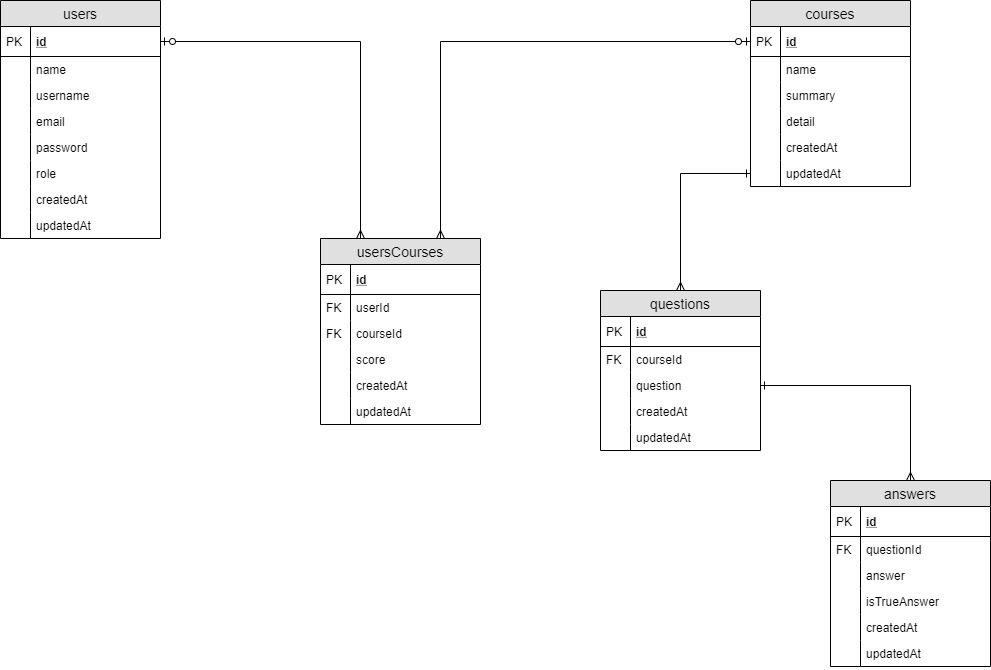
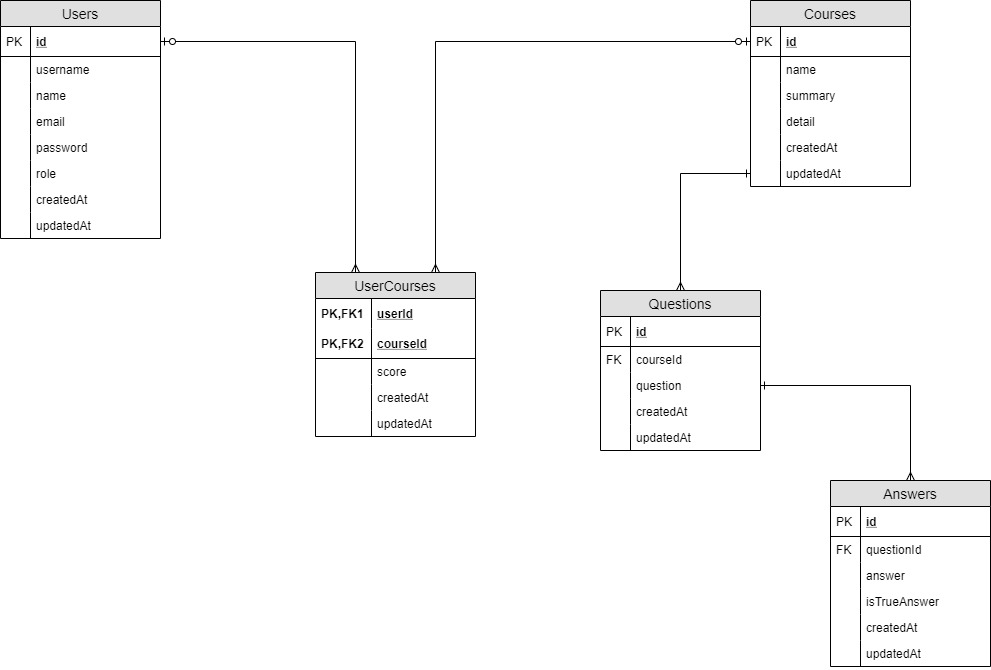
inisialisasi model

diff --git a/migrations/20200226084848-add-user-course-foreign.js b/migrations/20200226084848-add-user-course-foreign.js
@@ -1,0 +1,47 @@
+'use strict';
+
+module.exports = {
+  up: (queryInterface, Sequelize) => {
+    /*
+      Add altering commands here.
+      Return a promise to correctly handle asynchronicity.
+
+      Example:
+      */
+     return Promise.all([
+        queryInterface.addConstraint('UserCourses', ['userId'],{ 
+            type: 'foreign key',
+            name:'UserCourses_userId_fk',
+            references: { 
+              table: 'Users',
+              field: 'id'
+            },
+            onDelete: 'cascade',
+            onUpdate: 'cascade'   
+        }),
+        queryInterface.addConstraint('UserCourses', ['courseId'],{ 
+          type: 'foreign key',
+          name:'UserCourses_courseId_fk',
+          references: { 
+            table: 'Courses',
+            field: 'id'
+          },
+          onDelete: 'cascade',
+          onUpdate: 'cascade'   
+        }),
+     ])
+  },
+
+  down: (queryInterface, Sequelize) => {
+    /*
+      Add reverting commands here.
+      Return a promise to correctly handle asynchronicity.
+
+      Example:
+      */
+     return Promise.all([
+      queryInterface.removeConstraint('UserCourses','UserCourses_userId_fk'),
+      queryInterface.removeConstraint('UserCourses','UserCourses_courseId_fk')
+     ]);
+  }
+};

diff --git a/migrations/20200226083942-create-user.js b/migrations/20200226083942-create-user.js
@@ -1,0 +1,42 @@
+'use strict';
+module.exports = {
+  up: (queryInterface, Sequelize) => {
+    return queryInterface.createTable('Users', {
+      id: {
+        allowNull: false,
+        autoIncrement: true,
+        primaryKey: true,
+        type: Sequelize.INTEGER
+      },
+      name: {
+        type: Sequelize.STRING
+      },
+      username: {
+        type: Sequelize.STRING(20),
+        allowNull: false,
+      },
+      email: {
+        type: Sequelize.STRING,
+        allowNull: false,
+      },
+      password: {
+        type: Sequelize.STRING,
+        allowNull: false,
+      },
+      role: {
+        type: Sequelize.ENUM('user','admin')
+      },
+      createdAt: {
+        allowNull: false,
+        type: Sequelize.DATE
+      },
+      updatedAt: {
+        allowNull: false,
+        type: Sequelize.DATE
+      }
+    });
+  },
+  down: (queryInterface, Sequelize) => {
+    return queryInterface.dropTable('Users');
+  }
+};

diff --git a/migrations/20200226090002-create-answer.js b/migrations/20200226090002-create-answer.js
@@ -1,0 +1,36 @@
+'use strict';
+module.exports = {
+  up: (queryInterface, Sequelize) => {
+    return queryInterface.createTable('Answers', {
+      id: {
+        allowNull: false,
+        autoIncrement: true,
+        primaryKey: true,
+        type: Sequelize.INTEGER
+      },
+      questionId: {
+        type: Sequelize.INTEGER,
+        allowNull: false,
+      },
+      answer: {
+        type: Sequelize.TEXT('tiny'),
+        allowNull: false,
+      },
+      isTruAnswer: {
+        type: Sequelize.BOOLEAN,
+        allowNull: false,
+      },
+      createdAt: {
+        allowNull: false,
+        type: Sequelize.DATE
+      },
+      updatedAt: {
+        allowNull: false,
+        type: Sequelize.DATE
+      }
+    });
+  },
+  down: (queryInterface, Sequelize) => {
+    return queryInterface.dropTable('Answers');
+  }
+};

diff --git a/migrations/20200226084553-create-course.js b/migrations/20200226084553-create-course.js
@@ -1,0 +1,36 @@
+'use strict';
+module.exports = {
+  up: (queryInterface, Sequelize) => {
+    return queryInterface.createTable('Courses', {
+      id: {
+        allowNull: false,
+        autoIncrement: true,
+        primaryKey: true,
+        type: Sequelize.INTEGER
+      },
+      name: {
+        type: Sequelize.STRING,
+        allowNull: false,
+      },
+      summary: {
+        type: Sequelize.TEXT,
+        allowNull: false,
+      },
+      detail: {
+        type: Sequelize.TEXT,
+        allowNull: false,
+      },
+      createdAt: {
+        allowNull: false,
+        type: Sequelize.DATE
+      },
+      updatedAt: {
+        allowNull: false,
+        type: Sequelize.DATE
+      }
+    });
+  },
+  down: (queryInterface, Sequelize) => {
+    return queryInterface.dropTable('Courses');
+  }
+};

diff --git a/migrations/20200226085513-add-question-course-fk.js b/migrations/20200226085513-add-question-course-fk.js
@@ -1,0 +1,32 @@
+'use strict';
+
+module.exports = {
+  up: (queryInterface, Sequelize) => {
+    /*
+      Add altering commands here.
+      Return a promise to correctly handle asynchronicity.
+
+      Example:
+      */
+     return queryInterface.addConstraint('Questions', ['courseId'],{ 
+          type: 'foreign key',
+          name:'Questions_courseId_fk',
+          references: { 
+            table: 'Courses',
+            field: 'id'
+          },
+          onDelete: 'cascade',
+          onUpdate: 'cascade'   
+      });
+  },
+
+  down: (queryInterface, Sequelize) => {
+    /*
+      Add reverting commands here.
+      Return a promise to correctly handle asynchronicity.
+
+      Example:
+      */
+     return queryInterface.removeConstraint('Questions','Questions_courseId_fk');
+  }
+};

diff --git a/migrations/20200226090041-add-answer-question-fk.js b/migrations/20200226090041-add-answer-question-fk.js
@@ -1,0 +1,32 @@
+'use strict';
+
+module.exports = {
+  up: (queryInterface, Sequelize) => {
+    /*
+      Add altering commands here.
+      Return a promise to correctly handle asynchronicity.
+
+      Example:
+      */
+     return queryInterface.addConstraint('Answers', ['questionId'],{ 
+        type: 'foreign key',
+        name:'Answers_questionId_fk',
+        references: { 
+          table: 'Questions',
+          field: 'id'
+        },
+        onDelete: 'cascade',
+        onUpdate: 'cascade'   
+      });
+  },
+
+  down: (queryInterface, Sequelize) => {
+    /*
+      Add reverting commands here.
+      Return a promise to correctly handle asynchronicity.
+
+      
+    */
+    return queryInterface.removeConstraint('Answers','Answers_questionId_fk');
+  }
+};

diff --git a/migrations/20200226085442-create-question.js b/migrations/20200226085442-create-question.js
@@ -1,0 +1,31 @@
+'use strict';
+module.exports = {
+  up: (queryInterface, Sequelize) => {
+    return queryInterface.createTable('Questions', {
+      id: {
+        allowNull: false,
+        autoIncrement: true,
+        primaryKey: true,
+        type: Sequelize.INTEGER
+      },
+      courseId: {
+        type: Sequelize.INTEGER
+      },
+      question: {
+        type: Sequelize.TEXT,
+        allowNull: false,
+      },
+      createdAt: {
+        allowNull: false,
+        type: Sequelize.DATE
+      },
+      updatedAt: {
+        allowNull: false,
+        type: Sequelize.DATE
+      }
+    });
+  },
+  down: (queryInterface, Sequelize) => {
+    return queryInterface.dropTable('Questions');
+  }
+};

diff --git a/migrations/20200226084746-create-user-course.js b/migrations/20200226084746-create-user-course.js
@@ -1,0 +1,29 @@
+'use strict';
+module.exports = {
+  up: (queryInterface, Sequelize) => {
+    return queryInterface.createTable('UserCourses', {
+      userId: {
+        type: Sequelize.INTEGER,
+        primaryKey: true,
+      },
+      courseId: {
+        type: Sequelize.INTEGER,
+        primaryKey: true,
+      },
+      score: {
+        type: Sequelize.INTEGER
+      },
+      createdAt: {
+        allowNull: false,
+        type: Sequelize.DATE
+      },
+      updatedAt: {
+        allowNull: false,
+        type: Sequelize.DATE
+      }
+    });
+  },
+  down: (queryInterface, Sequelize) => {
+    return queryInterface.dropTable('UserCourses');
+  }
+};

diff --git a/models/usercourse.js b/models/usercourse.js
@@ -1,0 +1,20 @@
+'use strict';
+module.exports = (sequelize, DataTypes) => {
+
+  const Model=sequelize.Sequelize.Model;
+
+  class UserCourse extends Model{}
+
+  UserCourse.init( {
+    userId: DataTypes.INTEGER,
+    courseId: DataTypes.INTEGER,
+    score: DataTypes.INTEGER
+  },{sequelize,modelName: 'UserCourse'})
+
+  UserCourse.associate = function(models) {
+    // associations can be defined here
+    UserCourse.belongsTo(models.User,{ foreignKey: 'userId' });
+    UserCourse.belongsTo(models.Course,{ foreignKey: 'courseId' });
+  };
+  return UserCourse;
+};

diff --git a/models/user.js b/models/user.js
@@ -1,0 +1,21 @@
+'use strict';
+module.exports = (sequelize, DataTypes) => {
+
+  const Model=sequelize.Sequelize.Model;
+
+  class User extends Model{}
+
+  User.init({
+    name: DataTypes.STRING,
+    username: DataTypes.STRING,
+    email: DataTypes.STRING,
+    password: DataTypes.STRING,
+    role: DataTypes.ENUM('user','role')
+  },{sequelize,modelName: 'User'});
+
+  User.associate = function(models) {
+    // associations can be defined here
+    User.belongsToMany(models.Course,{through:'UserCourse',foreignKey:'userId'})
+  };
+  return User;
+};

diff --git a/models/course.js b/models/course.js
@@ -1,0 +1,20 @@
+'use strict';
+module.exports = (sequelize, DataTypes) => {
+
+  const Model=sequelize.Sequelize.Model;
+
+  class Course extends Model{}
+
+  Course.init({
+    name: DataTypes.STRING,
+    summary: DataTypes.TEXT,
+    detail: DataTypes.TEXT
+  }, {sequelize,modelName: 'Course'})
+
+  Course.associate = function(models) {
+    // associations can be defined here
+    Course.belongsToMany(models.User,{through:'UserCourse',foreignKey:'courseId'});
+    Course.hasMany(model.Question,{foreignKey:'courseId'})
+  };
+  return Course;
+};

diff --git a/models/question.js b/models/question.js
@@ -1,0 +1,20 @@
+'use strict';
+module.exports = (sequelize, DataTypes) => {
+  const Model=sequelize.Sequelize.Model;
+
+  class Question extends Model{}
+
+  Question.init({
+    courseId: DataTypes.INTEGER,
+    question: DataTypes.TEXT
+  }, {sequelize,modelName:'Question'})
+
+
+  Question.associate = function(models) {
+    // associations can be defined here
+    Question.belongsTo(models.Course,{ foreignKey: 'courseId' });
+    Question.hasMany(models.Answer,{foreignKey:'questionId'})
+
+  };
+  return Question;
+};
